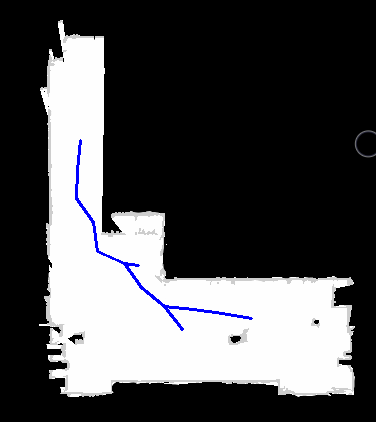
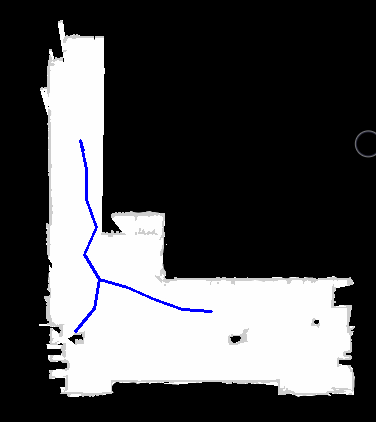
Added config file, for easier configuration of RRT algo. Also implemented bed start heading

diff --git a/solve.py b/solve.py
@@ -10,12 +10,14 @@ x = Symbol('x')
 import cv2
 def norm(a, b):
     return simplify(sqrt((a**2) + (b**2)))
-def trajectoryGen(tf, startX, startY, goalX, goalY, startAngle, goalAngle):
+def trajectoryGen(tf, startX, startY, goalX, goalY, startAngle, goalAngle, startAngleBed):
     x_r_0 = [startX,startY]
     x_r_t = [goalX,goalY]
     v_0 = startAngle
     v_t = goalAngle
-    h_r_0 = [cos(radians(v_0)).real, sin(radians(v_0)).real]
+    print(startAngle, " ", startAngleBed)
+    print("ANGLES")
+    h_r_0 = [cos(radians(startAngleBed)).real, sin(radians(startAngleBed)).real]
     h_r_t = [cos(radians(v_t)).real, sin(radians(v_t)).real]
 
     d = x_r_0[0]
@@ -97,6 +99,8 @@ image = cv2.imread('blank.png')
 compound = False
 compund = True
 def drawPath(img, node0 : Node, node1 : Node):
+    config = open("config.json")
+    config = json.load(config)
     x0 = node0.pos[0]/20
     y0 = node0.pos[1]/20
     x1 = node1.pos[0]/20
@@ -108,9 +112,12 @@ def drawPath(img, node0 : Node, node1 : Node):
         angle+=360
     if h0 > angle+45 or h0 < angle - 45:
         return False
-    print(x0, y0, x1, y1, h0, h1)
-    print(angle)
-    xBed, hBed, xRobot, hRobot = trajectoryGen(2, x0, y0, x1, y1, h0, h1)
+    #print(x0, y0, x1, y1, h0, h1)
+    #print(angle)
+    h0Bed = node0.headingBed
+    if h0Bed is None:
+        h0Bed = h1
+    xBed, hBed, xRobot, hRobot = trajectoryGen(2, x0, y0, x1, y1, h0, h1, h0Bed)
     nimg = img.copy()
     for x in range (len(xBed)-1):
         #nimg = img.copy()
@@ -126,11 +133,18 @@ def drawPath(img, node0 : Node, node1 : Node):
             #pass
             bedH = -bedH
             robotH = -robotH
-        #drawTools.drawRect(nimg, bed, bedH, bedX*20, bedY*20)
-        drawTools.drawRect(nimg, robot, robotH, robotX*20, robotY*20)
-        #cv2.imwrite("images/trailer/"+str(x)+".png", image)
-    #cv2.imshow('image', nimg)
-    #cv2.waitKey()
+        if config["drawRobot"] == 1:
+            drawTools.drawRect(nimg, bed, bedH, bedX*20, bedY*20)
+        if config["drawBed"] == 1:
+            drawTools.drawRect(nimg, robot, robotH, robotX*20, robotY*20)
+        cv2.imwrite("images/trailer/"+str(x)+".png", image)
+    node1.headingBed = bedH
+    #print("BedHead; RobHead " + str(node1.headingBed)+" " + str(node1.heading))
+    #print(node1)
+    #print("Nodecheck")
+    if config["showSteps"] == 1:
+        cv2.imshow('image', nimg)
+        cv2.waitKey()
     return nimg
 if __name__ == "__main__":
     print("Main")

diff --git a/nodeClass.py b/nodeClass.py
@@ -9,6 +9,7 @@ class Node:
         self.backPointer = []
         self.cheapestBack = None
         self.heading = None
+        self.headingBed = None
     def addConnection(self, newConnection):
         if isinstance(newConnection, list):
             self.connectedNodes = self.connectedNodes + newConnection
